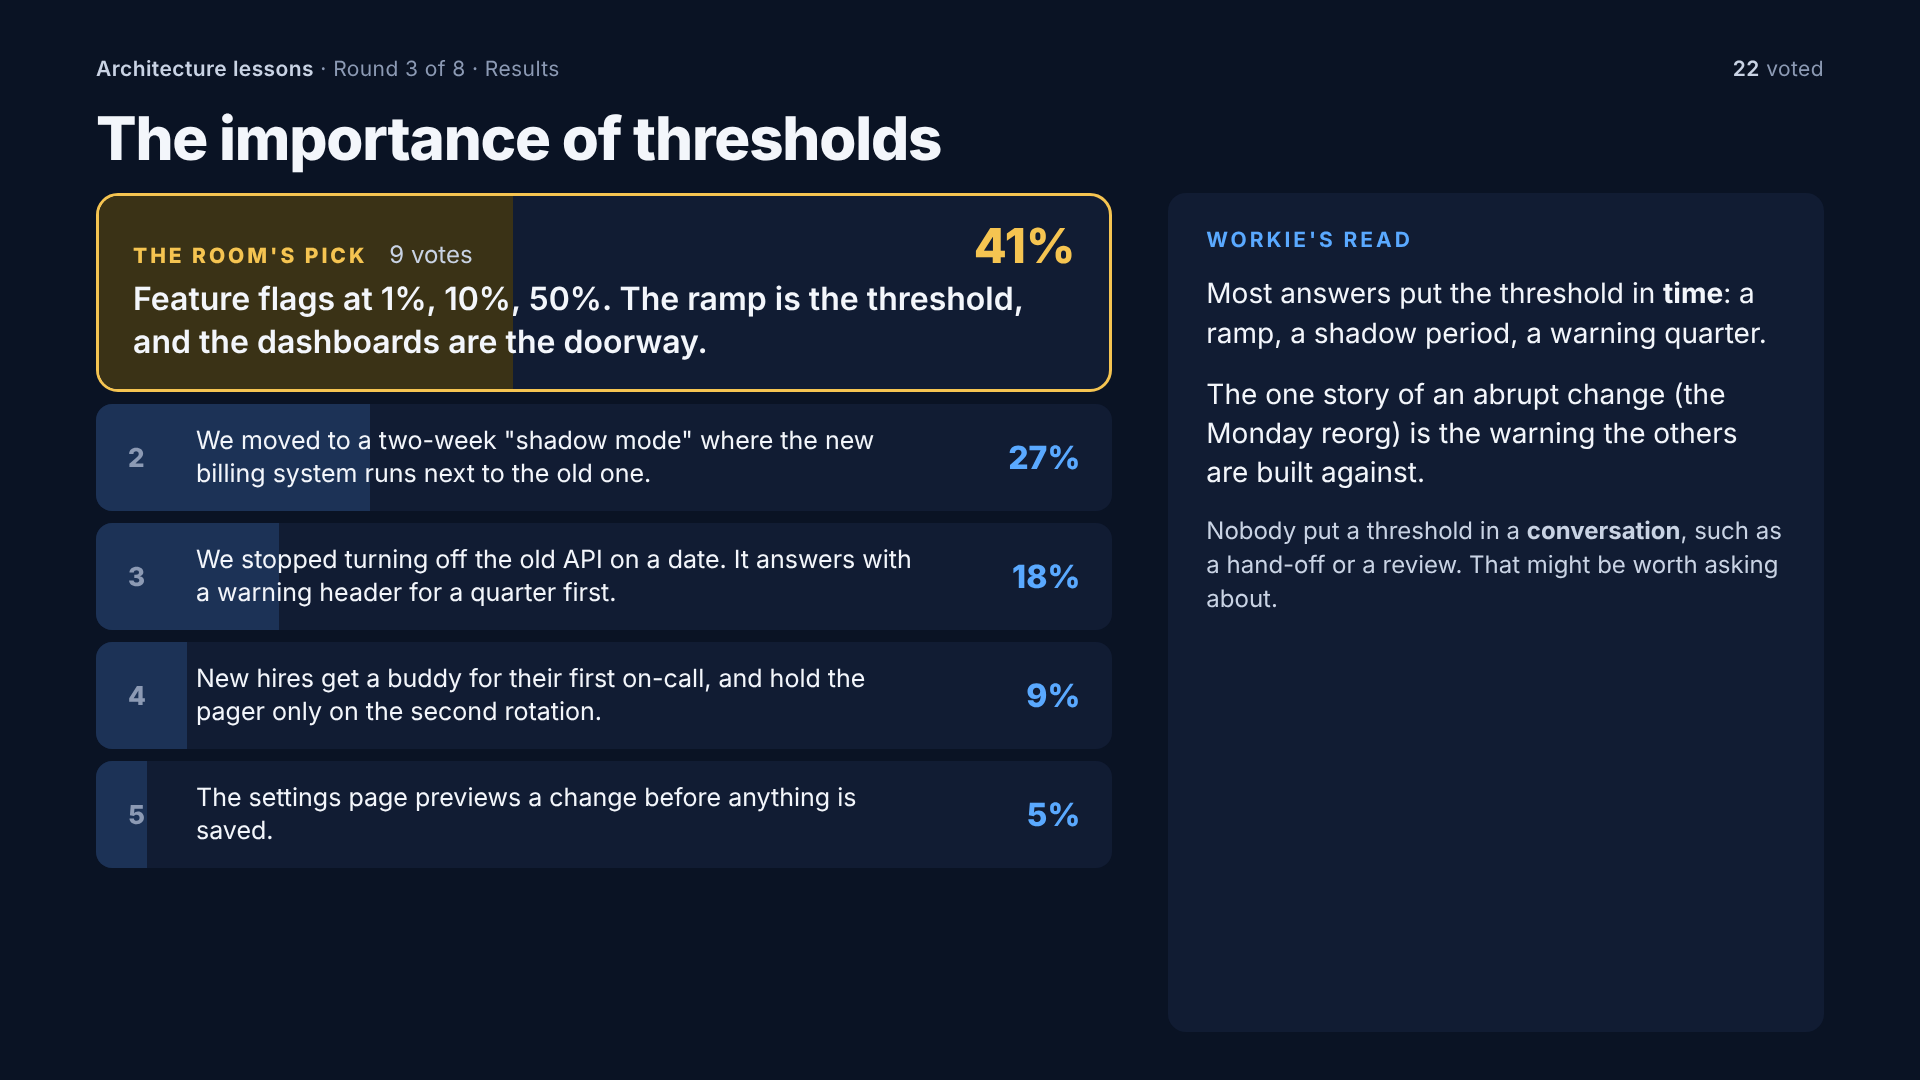
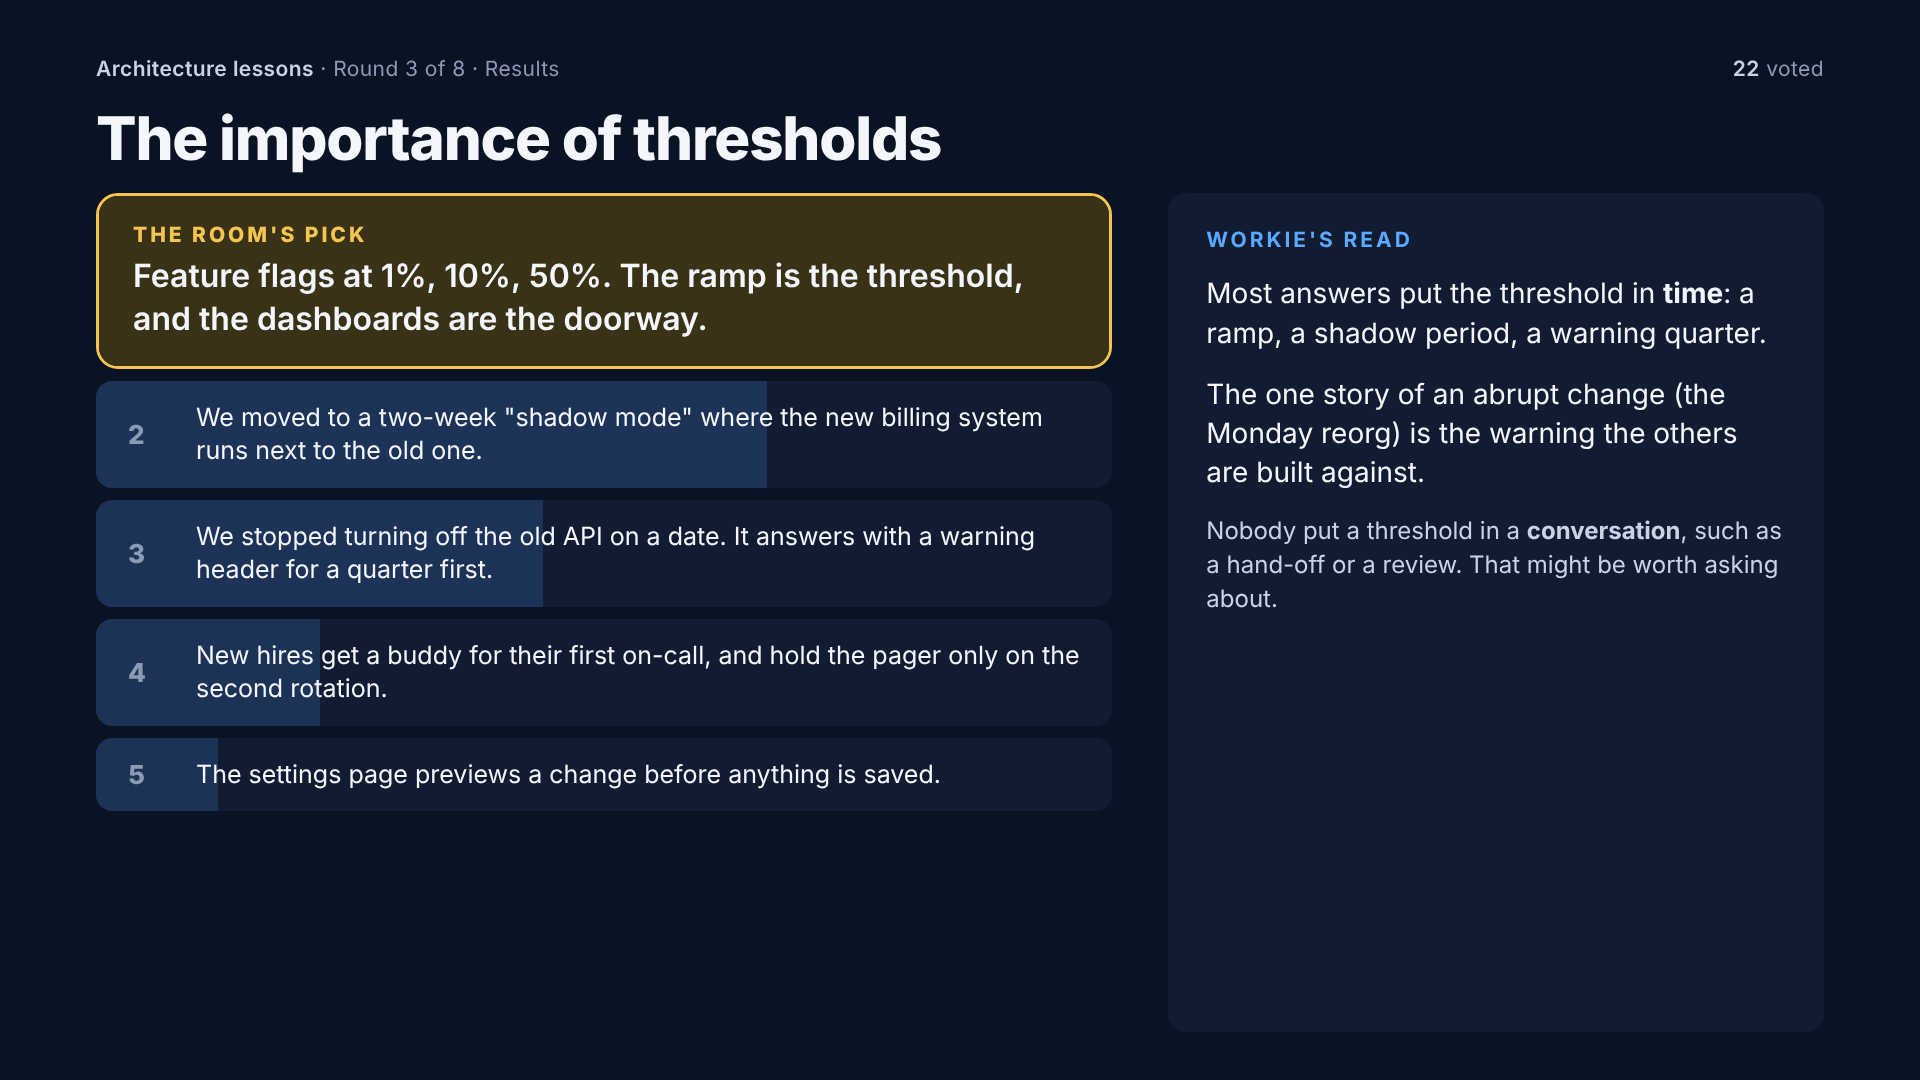
Room screens mockup: results keep anonymity (bars relative to the pick, no counts where names are hidden), and the README maps it onto what already exists
Claude-Session: https://claude.ai/code/session_01JZKCEkq6ta8EuTwBv63dbA

diff --git a/docs/design/room-content-v2/index.html b/docs/design/room-content-v2/index.html
@@ -266,23 +266,23 @@ html, body { margin: 0; background: #05090F; color: var(--ink);
   <!-- 5 -->
   <section class="shot">
     <h2>5 · Results (Room)</h2>
-    <p class="why">The takeaway is the winning answer, so it reads large in full, with its share in gold. The runners-up keep their text too. The bar is the fill behind each answer, so the chart and what was voted on are the same thing. The bottom line gives the host a way into the discussion.</p>
+    <p class="why">The takeaway is the winning answer, read large in full. The runners-up keep their text. The bar is the fill behind each answer, relative to the winner, so the result and what was voted on are one thing. There are no vote counts or percentages: in a round where names are hidden, a number beside an answer lets its author be worked out (the 16 Oct rule). In a named round the credit line and points come back. The bottom line gives the host a way into the discussion that doesn't ask anyone to own up.</p>
     <div class="viewport"><div class="frame">
       <div class="strip"><span><b>Round 3</b> of 8 · Results</span><span class="grow"></span>
         <span><b>22</b> voted</span></div>
       <div class="main" style="justify-content:flex-start;padding-top:34px">
       <h1 class="title" style="font-size:var(--primary);margin-bottom:30px">The importance of thresholds</h1>
-      <div class="win"><span class="fill" style="width:41%"></span>
-        <div class="head"><span class="place">The room's pick</span><span class="votes">9 of 22 votes</span><span class="pct">41%</span></div>
+      <div class="win"><span class="fill" style="width:100%"></span>
+        <div class="head"><span class="place">The room's pick</span></div>
         <p>Feature flags at 1%, 10%, 50%. The ramp is the threshold, and the dashboards are the doorway.</p></div>
       <div class="rows">
-        <div class="row"><span class="fill" style="width:27%"></span><span class="rank">2</span><p>We moved to a two-week "shadow mode" where the new billing system runs next to the old one.</p><span class="pct">27%</span></div>
-        <div class="row"><span class="fill" style="width:18%"></span><span class="rank">3</span><p>We stopped turning off the old API on a date. It now answers with a warning header for a quarter first.</p><span class="pct">18%</span></div>
-        <div class="row"><span class="fill" style="width:9%"></span><span class="rank">4</span><p>New hires get a buddy for their first on-call, and they hold the pager only on the second rotation.</p><span class="pct">9%</span></div>
+        <div class="row"><span class="fill" style="width:66%"></span><span class="rank">2</span><p>We moved to a two-week "shadow mode" where the new billing system runs next to the old one.</p></div>
+        <div class="row"><span class="fill" style="width:44%"></span><span class="rank">3</span><p>We stopped turning off the old API on a date. It now answers with a warning header for a quarter first.</p></div>
+        <div class="row"><span class="fill" style="width:22%"></span><span class="rank">4</span><p>New hires get a buddy for their first on-call, and they hold the pager only on the second rotation.</p></div>
       </div>
-      <div class="foot" style="margin-top:14px">and 5 more answers, 5% of the votes between them</div>
+      <div class="foot" style="margin-top:14px">and 5 more answers</div>
       </div>
-      <div class="talk"><span class="k">Talk about it</span>Who wrote the winner? Tell us what the dashboards had to show before you went past 10%.</div>
+      <div class="talk"><span class="k">Talk about it</span>What do the top two have in common, and what would it take for the second to win?</div>
     </div></div>
   </section>
 
@@ -295,13 +295,13 @@ html, body { margin: 0; background: #05090F; color: var(--ink);
       <h1 class="title" style="font-size:60px;margin-top:26px">The importance of thresholds</h1>
       <div class="cols" style="margin-top:24px">
         <div style="display:flex;flex-direction:column;gap:12px">
-          <div class="win" style="padding:26px 34px"><span class="fill" style="width:41%"></span>
-            <div class="head" style="margin-bottom:8px"><span class="place">The room's pick</span><span class="votes">9 votes</span><span class="pct" style="font-size:48px">41%</span></div>
+          <div class="win" style="padding:26px 34px"><span class="fill" style="width:100%"></span>
+            <div class="head" style="margin-bottom:8px"><span class="place">The room's pick</span></div>
             <p style="font-size:32px">Feature flags at 1%, 10%, 50%. The ramp is the threshold, and the dashboards are the doorway.</p></div>
-          <div class="row"><span class="fill" style="width:27%"></span><span class="rank">2</span><p style="font-size:25px">We moved to a two-week "shadow mode" where the new billing system runs next to the old one.</p><span class="pct" style="font-size:32px">27%</span></div>
-          <div class="row"><span class="fill" style="width:18%"></span><span class="rank">3</span><p style="font-size:25px">We stopped turning off the old API on a date. It answers with a warning header for a quarter first.</p><span class="pct" style="font-size:32px">18%</span></div>
-          <div class="row"><span class="fill" style="width:9%"></span><span class="rank">4</span><p style="font-size:25px">New hires get a buddy for their first on-call, and hold the pager only on the second rotation.</p><span class="pct" style="font-size:32px">9%</span></div>
-          <div class="row"><span class="fill" style="width:5%"></span><span class="rank">5</span><p style="font-size:25px">The settings page previews a change before anything is saved.</p><span class="pct" style="font-size:32px">5%</span></div>
+          <div class="row"><span class="fill" style="width:66%"></span><span class="rank">2</span><p style="font-size:25px">We moved to a two-week "shadow mode" where the new billing system runs next to the old one.</p></div>
+          <div class="row"><span class="fill" style="width:44%"></span><span class="rank">3</span><p style="font-size:25px">We stopped turning off the old API on a date. It answers with a warning header for a quarter first.</p></div>
+          <div class="row"><span class="fill" style="width:22%"></span><span class="rank">4</span><p style="font-size:25px">New hires get a buddy for their first on-call, and hold the pager only on the second rotation.</p></div>
+          <div class="row"><span class="fill" style="width:12%"></span><span class="rank">5</span><p style="font-size:25px">The settings page previews a change before anything is saved.</p></div>
         </div>
         <div class="side">
           <h3>Workie's read</h3>
@@ -410,23 +410,22 @@ html, body { margin: 0; background: #05090F; color: var(--ink);
   <!-- 12 -->
   <section class="shot">
     <h2>12 · The host puts one result up (Room)</h2>
-    <p class="why">The same move on results. The answer reads large with its place and its share, and the ladder beside it shows where it sits against the others. Good for asking the room why the runner-up didn't win.</p>
+    <p class="why">The same move on results. The answer reads large with its place, and the ladder beside it shows where it sits against the others, by bar alone. Good for asking the room why the runner-up didn't win.</p>
     <div class="viewport"><div class="frame">
       <div class="strip"><span><b>Round 3</b> of 8 · Results · <b>The importance of thresholds</b></span><span class="grow"></span><span><b>22</b> voted</span></div>
       <div class="focusres">
         <div>
           <div class="tag" style="display:flex;align-items:baseline;gap:24px;margin-bottom:26px">
             <span style="font-size:var(--meta);letter-spacing:.14em;text-transform:uppercase;color:var(--accent);font-weight:800">2nd</span>
-            <span style="font-size:72px;font-weight:800;color:var(--accent);line-height:1">27%</span>
-            <span style="font-size:26px;color:var(--ink-2)">6 of 22 votes</span></div>
+            </div>
           <p class="big" style="font-size:54px;line-height:1.3;font-weight:600;margin:0">We moved to a two-week "shadow mode" where the new billing system runs next to the old one. Nobody has to trust it on day one.</p>
         </div>
         <div class="ladder">
-          <div class="r win"><span class="fill" style="width:41%"></span><span>1</span><b>41%</b></div>
-          <div class="r on"><span class="fill" style="width:27%"></span><span>2</span><b>27%</b></div>
-          <div class="r"><span class="fill" style="width:18%"></span><span>3</span><b>18%</b></div>
-          <div class="r"><span class="fill" style="width:9%"></span><span>4</span><b>9%</b></div>
-          <div class="r"><span class="fill" style="width:5%"></span><span>5–9</span><b>5%</b></div>
+          <div class="r win"><span class="fill" style="width:100%"></span><span>1</span></div>
+          <div class="r on"><span class="fill" style="width:66%"></span><span>2</span></div>
+          <div class="r"><span class="fill" style="width:44%"></span><span>3</span></div>
+          <div class="r"><span class="fill" style="width:22%"></span><span>4</span></div>
+          <div class="r"><span class="fill" style="width:12%"></span><span>5–9</span></div>
         </div>
       </div>
     </div></div>

diff --git a/docs/design/room-content-v2/README.md b/docs/design/room-content-v2/README.md
@@ -10,8 +10,10 @@ These frames replace `docs/design/room-content/`. The owner rejected those on 18
 > the expense of seeing what was voted on. think of what is important to take away and
 > discuss. then think how do i make it really visually engaging and informative quickly."
 
-This is a static mockup (`index.html`). **Nothing here is built yet.** `roomContent.js` on dev
-still has the rejected rule, where the task leads and the lesson is dropped.
+This is a static mockup (`index.html`). **Nothing here is built yet.** Dev is partway there:
+`39bd137c` (another session, 18 Oct) already makes the lesson lead on every profile, with the
+task under it labelled "The task". This mockup goes further (the title as hero, a "Your turn"
+band) and builds on that commit rather than on the 17 Oct rule.
 
 ## The hierarchy, from an instructor's seat
 
@@ -23,7 +25,7 @@ or are left out.
 |---|---|---|---|
 | A lesson or question is up | read it and think | **the title** (hero) and **the lesson** (secondary, 40px on Room; never dropped, steps down to 35px before it pages) | the question's *own* instruction goes in one "Your turn" band. A generic instruction ("answer on your phone") is dropped, because the top strip already says where to answer. The category is a small eyebrow. |
 | Voting | weigh the answers | **every answer, whole**, numbered so people can name one out loud; the title as a reminder | how many have voted. No tallies while voting, so the first votes don't steer the rest. |
-| Results | take away the winner, then talk | **the winning answer in full**, with its share in gold; the runners-up keep their text | the bars are the fill *behind* each answer, so the chart and what was voted on are one thing. "Talk about it" gives the host a way in. The rest collapse into "and 5 more". |
+| Results | take away the winner, then talk | **the winning answer in full**, marked as the room's pick; the runners-up keep their text | the bars are the fill *behind* each answer, relative to the winner, so the chart and what was voted on are one thing. **No counts or percentages where names are hidden**: a number beside an answer lets its author be worked out (16 Oct, `presentModel.js`). A named round adds the credit line and points. "Talk about it" gives the host a way in without asking anyone to own up. The rest collapse into "and 5 more". |
 | Build Room ask | weigh the options | **the prompt** and **each option's title and detail** | Claude's status strip stays at the top on every screen (owner, 17 Oct) |
 | Build Room result | see the pick and what Claude does next | **the options, with bars rising inside them**; the winner carries the room's best reason | "Sent to Claude" shows the direction the host sent |
 
@@ -48,6 +50,50 @@ Workie's read of the themes.
   show where it sits, and Esc goes back to all of them. A long answer splits into parts, as
   `present/presentKeys.js` already does. This reuses the stage-focus `answer` index that
   exists today; the overview is the new part.
+
+## What already exists, and how this fits it
+
+From an inventory of today's room screens and what landed on dev up to 18 Oct.
+
+**Built on, not replaced:**
+- **The skins and the shared parts.** The wall draws with `TopLine`, `Eyebrow`, `Heading`,
+  `Card`, `TallyRow`, `NumberBadge` and `Pips` on skin roles (`--sk-gold` for the pick, blue
+  accent under Present, orange under Classic), and `presentWallPalette.test.js` checks
+  contrast in every skin. The mockup's colours are stand-ins: the build uses those roles.
+- **The four profiles and the fitter** (shrink to `--fit-min`, drop `data-drop` parts, then
+  "and N more"; never scroll). The 35px and 27px steps here are the fitter's job. Each
+  frame is checked at 1280×720, 1366×768, 1440×900 and 1920×1080 on Room, TV, Call and
+  Table (host standards §5).
+- **Stepping through answers**, with parts for long ones (`presentKeys.js`, `presentFit.js`),
+  and the one-screen `AnswerSpotlight`. Frames 11 and 12 draw that in the new style.
+- **Focus lives on the server** (`stage-focus.js`) and clears on every phase change. Showing
+  the QR as a panel, and the overview, each become a fact stored there, not client state.
+- **Ideas-first results** (16 Oct, `docs/design/results-ideas-first/`): idea in full, a bar
+  relative to the top idea, no podium. Frame 5 is that, larger.
+- **Never a name while voting**, never Workie's Background, names with totals only on the
+  scoreboard.
+- **The lobby** redesign on dev (`b55f6b76`): the title at hero size with the event details,
+  and the QR on the right. Kept as is; the QR side panel borrows its block.
+- **Claude's status** on every Build Room screen, and **"Sent to Claude" then the work row**
+  from `docs/design/build-room-ideas/` (I9, I10). Frame 8's band is that one.
+- **Long Build Room asks page** (Room 3 options, TV 2, Call 3, Table 4). On the room's window,
+  "and N more options on your phone" covers the rest.
+- **Two QR codes in Build Room** (join, and the demo on the Wi-Fi), so its QR panel holds both.
+
+**Kept as they are today, with the same rule applied (the lead is what changes, words that
+never change are small):** the trivia reveal (the correct row, the explanation), poll and
+wavelength boards, the ask-the-room beat, Workie's read (paged, "Page 2 of 4"), the
+feedback beat, the question focus, the scoreboard, the phase wipe, the end screen, and
+the Build Room wheel, talking point, run list, idle, Build and History screens.
+
+**Changes to earlier rulings this asks for:**
+- The join code: a takeover today, a side panel here.
+- Voting opens on answer 1 today (13 Oct); this opens on all the answers when they fit
+  (question 5 below).
+- Option detail and the room's reasons were Call only (17 Oct); here they show on Room,
+  because the room has to see what it is voting on.
+- Build Room asks show live counts while voting today; frame 7 hides them until the vote
+  closes (question 3).
 
 ## Frames (1920×1080, the Room profile's type steps)
 
@@ -76,8 +122,8 @@ Workie's read of the themes.
 2. **Highlighted phrases** (gold in frames 1 to 3). Should the set author mark them, or
    should there be none? Nothing marks them today.
 3. **No tallies while voting.** Agreed, or should the host be able to show them live?
-4. **"Talk about it" on results.** Is a fixed facilitator line acceptable ("Who wrote the
-   winner? Tell us more"), or should Workie write one per round?
+4. **"Talk about it" on results.** Is a fixed facilitator line acceptable ("What do the top
+   two have in common?"), or should Workie's discussion topic be used when it has one?
 5. **Voting opens on all the answers or on answer 1?** On 2026-10-13 the owner had
    "Response 1 is on the wall from the start of voting" (`presentKeys.js`). These frames open
    on all of them, with → stepping to answer 1. The proposal is to open on the overview
